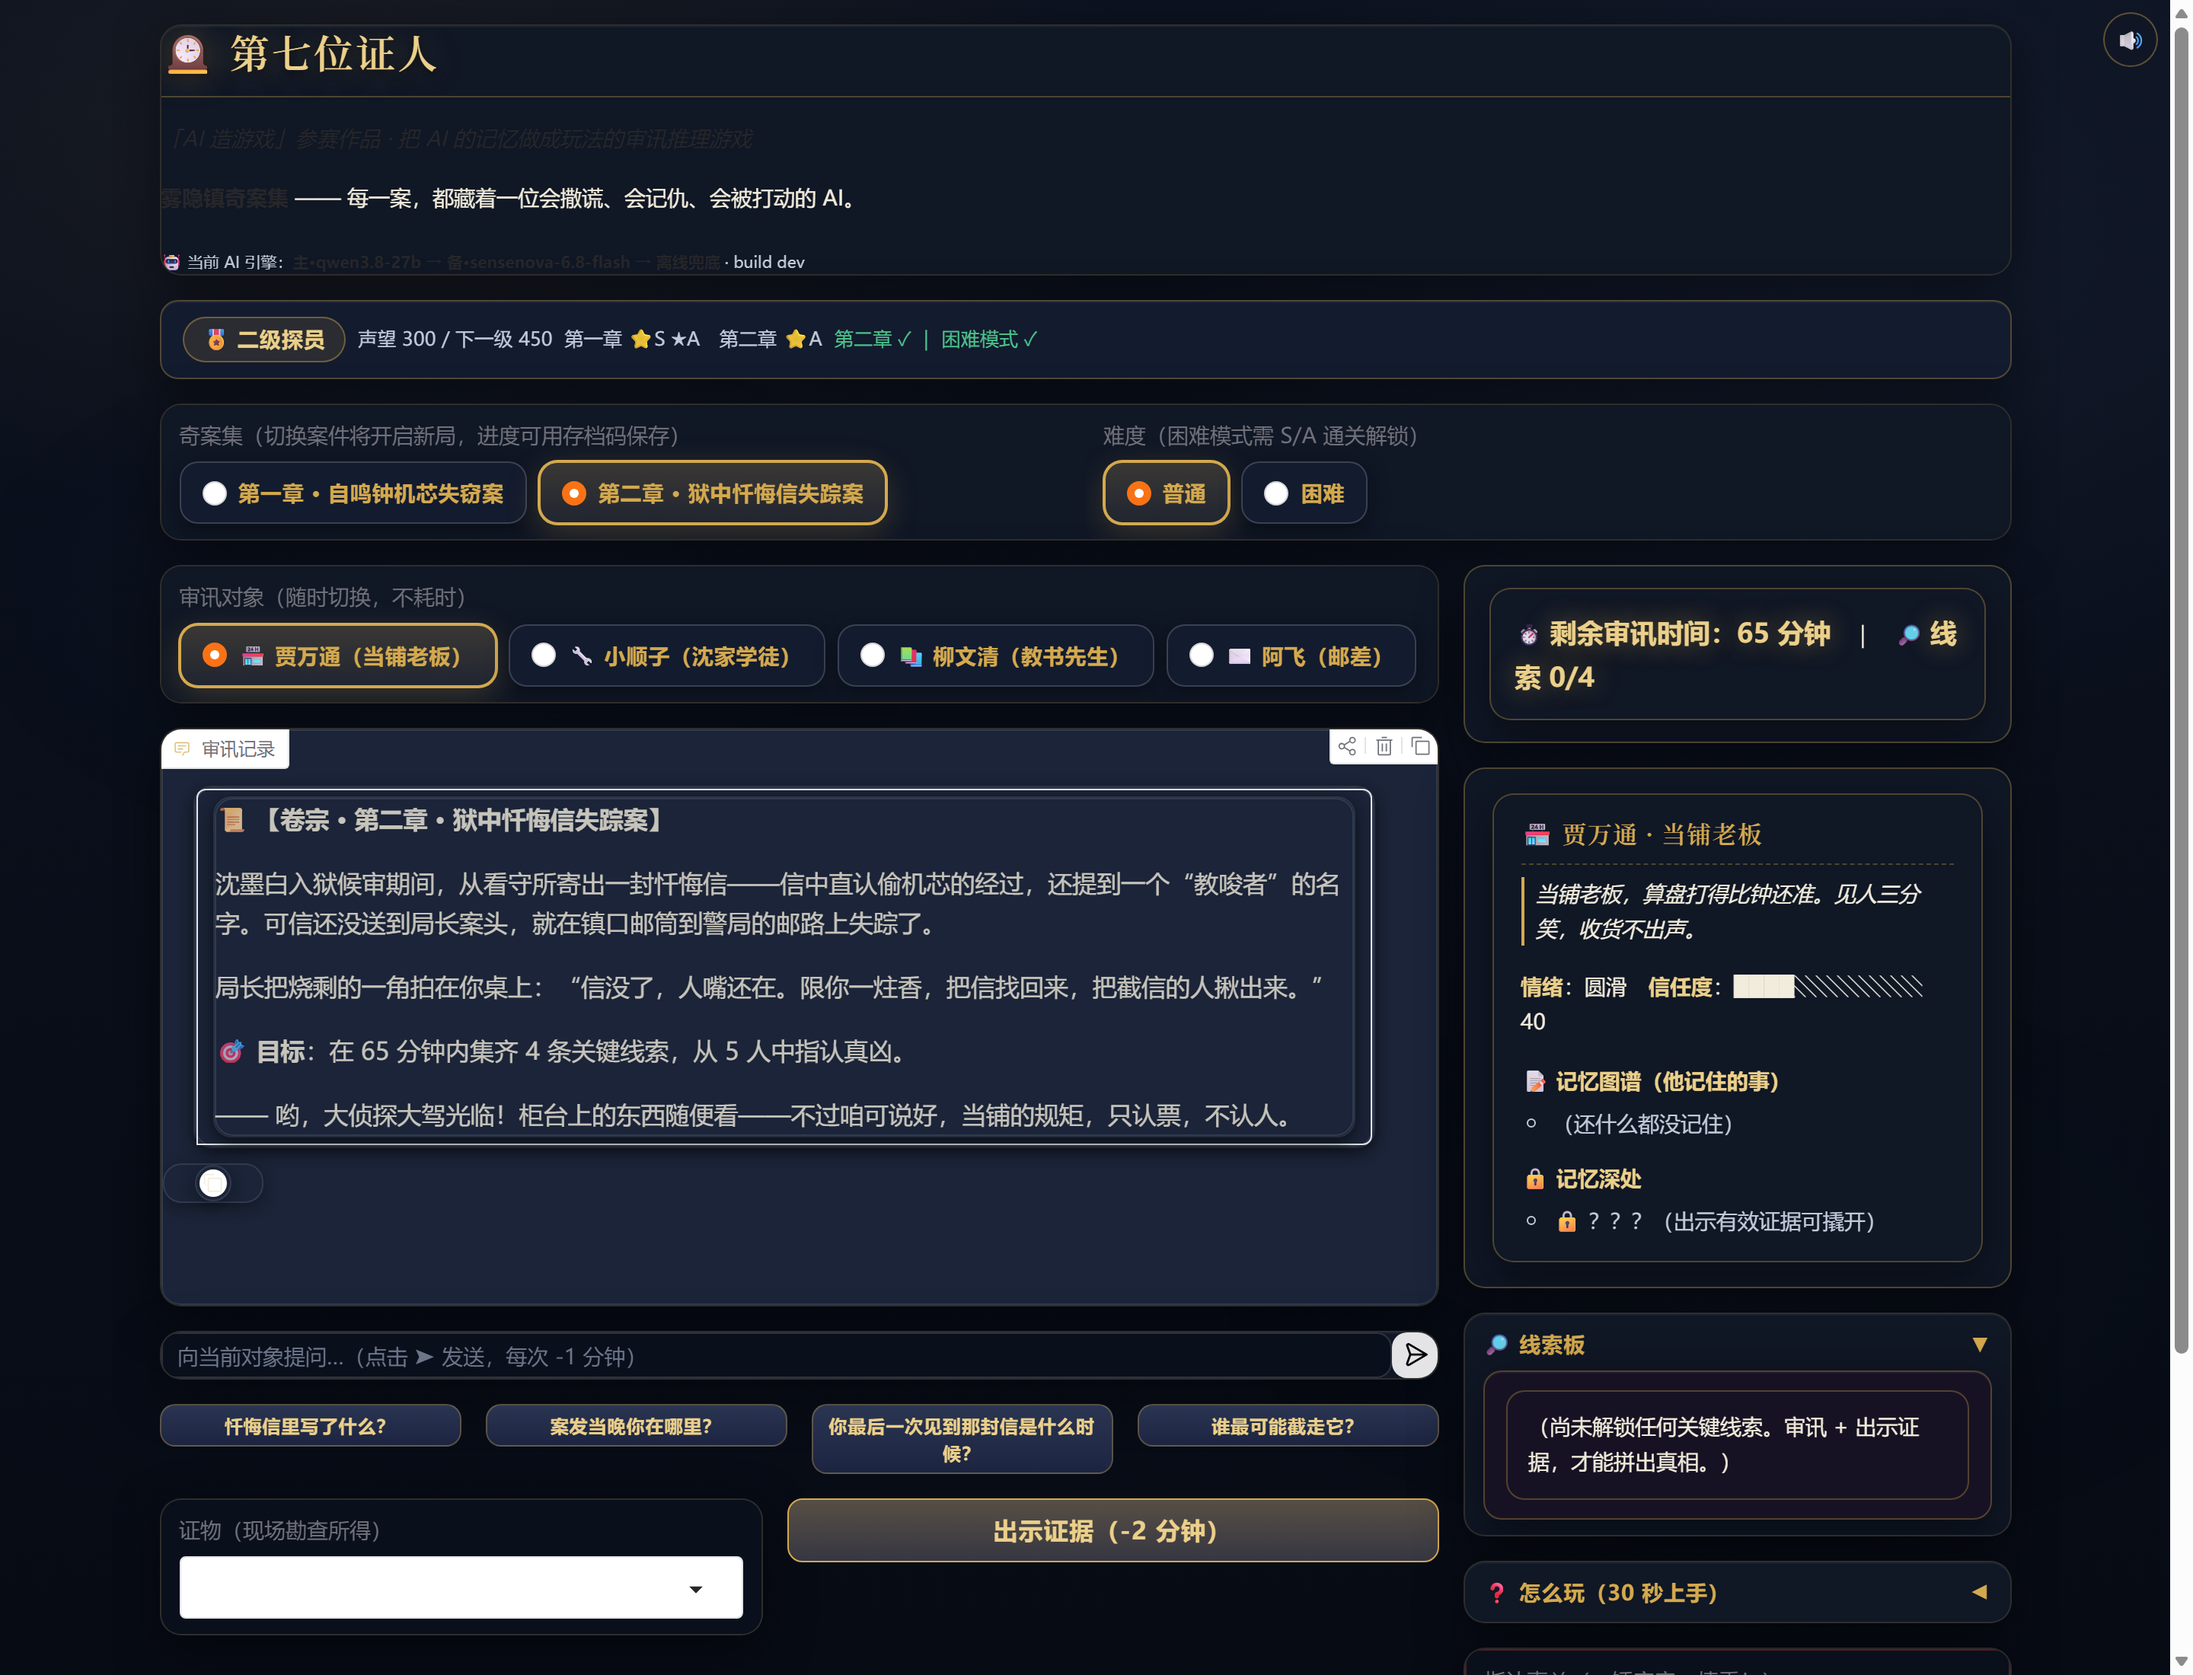
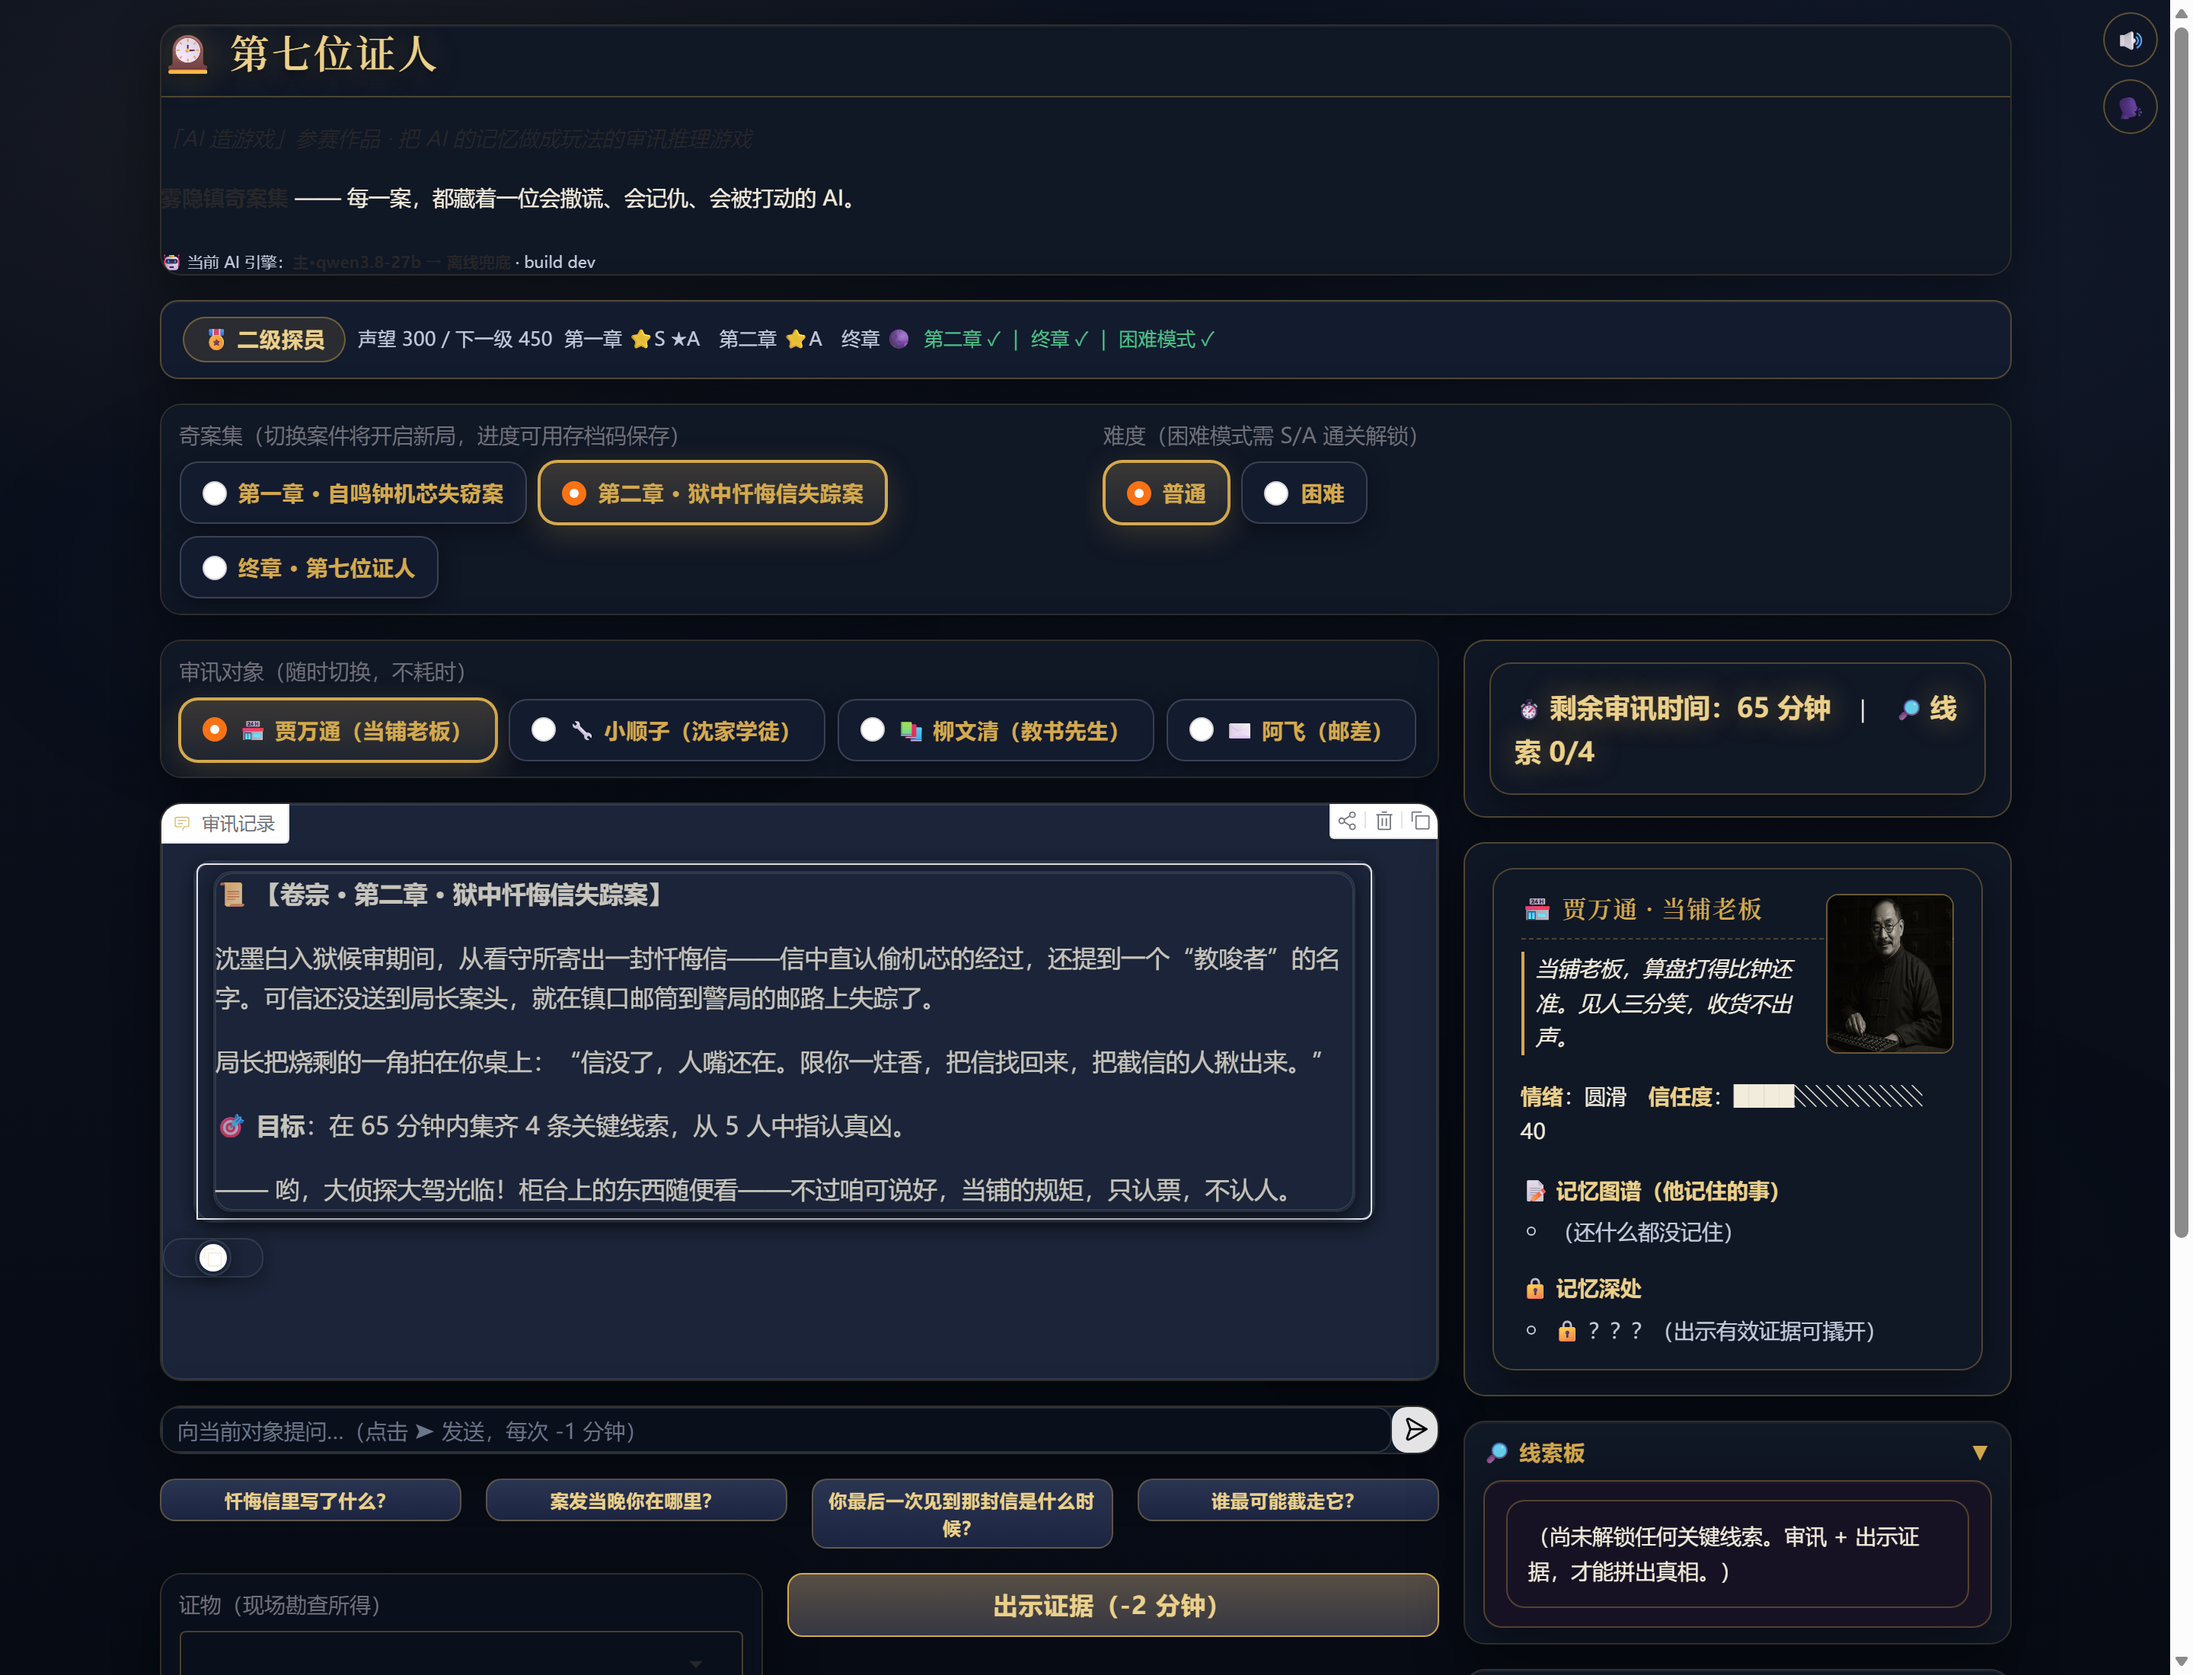
docs(v4): 三章/对质/立绘 README、v4 更新说明与发布截图

diff --git a/docs/v4更新说明.md b/docs/v4更新说明.md
@@ -1,0 +1,40 @@
+# 《第七位证人》v4 更新说明
+
+> 用途：追加到已发布手记，或单独发一篇「v4 冠军版」更新帖。
+> 线上：https://gsym236998-seventh-witness.ms.show
+
+---
+
+## 一句话
+
+**三个案子，12 个会记仇、会撒谎、会对质的 AI NPC。**
+把“AI 的记忆”从台词层，推进到规则层。
+
+## 新增内容
+
+- **终章《第七位证人》**：两案并卷当夜，档案室失火，忏悔信原件失踪。4 名新嫌疑人、5 件证物、4 条线索、2 个对质点；哑女阿蘅就是那个从未被写进名单的“第七位证人”。
+- **当面对质**：选两名 NPC 就同一件事各自说一遍，AI 生成两份互相矛盾的证词；判断谁在说谎，正确可解锁关键线索。离线 Mock 也能完整使用。
+- **12 名 NPC 立绘**：前两章黑白电影感人像；终章是“火后重建”的铜金档案剪影。
+- **浏览器 TTS**：按每名 NPC 的声线朗读台词，右上角可随时开关。
+- **50 项回归 + CI 门禁 + 部署后公网 smoke**：三章 × 两难度 × 五种结局 × 对质 × 存档 × 立绘。
+
+## 评审 3 分钟路径
+
+1. 第一章开局，问王大锤“案发当晚你在哪里？”——看右侧记忆图谱与信任度。
+2. 打开「⚔ 当面对质」，选「王大锤 × 苏眉 · 案发当晚」——两份证词对不上，判断谁在说谎。
+3. 把「账本残页」出示给王大锤——坦白 + 第一条关键线索。
+4. 以 S/A 通关第一章 → 解锁第二章；再以 S/A 通关第二章 → 解锁终章。
+5. 结案后点「生成侦探成绩卡」，可保存分享。
+
+## AI NPC 内核
+
+每个 NPC 持有：`facts / secret / whisper / trust / emotion / memories / history / confessions`。
+三层确定性规则：信任 <15 逐客、<25 拒答关键案情、≥85 主动透话。
+对质时，LLM 生成双方的角色化反应，作者写好的 claim 作为逻辑锚点——**在线是活的，离线是稳的**。
+LLM 链：主 → 备 → Mock，单次 10 秒超时、连续失败 2 次冷却 60 秒。
+
+## 试玩
+
+https://gsym236998-seventh-witness.ms.show
+
+建议电脑浏览器；手机端已做单列适配与常驻 HUD。

diff --git a/docs/DESIGN.md b/docs/DESIGN.md
@@ -102,3 +102,23 @@
 - [ ] 报名审核状态跟进
 - [ ] 11.29–30 最终复核（试玩/手记/视频/仓库/链接）
 - [ ] 视频重录为 v3.2（现有 58s 视频仍是 v1 界面）
+
+---
+
+## 九、v4 冠军版状态（2026-11-15）
+
+已完成并上线：
+- [x] 当面对质：两章 + 终章共 4 个对质点；AI 生成双方证词，判断谁说谎
+- [x] 终章《第七位证人》：4 NPC / 5 证物 / 4 线索 / 2 对质点；哑女阿蘅 = 第七位证人
+- [x] 三章解锁链：第一章 S/A → 第二章；第二章 S/A → 终章
+- [x] 12 名 NPC 立绘：前两章黑白人像，终章档案剪影；data URI 嵌入状态卡
+- [x] 浏览器 TTS：按 NPC 声线朗读，可开关
+- [x] 手机端 sticky HUD：时间/线索贴在聊天区上方，不遮挡台词
+- [x] 50 项回归 + CI 测试门禁 + 部署后公网 smoke（含终章/对质/立绘）
+- [x] README / v4 更新说明 / 新截图（三章、困难、成绩卡、手机端）
+
+仍待人工：
+- [ ] 小红书 v4 重发与报名表链接确认
+- [ ] 手记追加 v4 段（docs/v4更新说明.md）
+- [ ] 90s 演示视频重录（当前视频仍是 v1）
+- [ ] 12.01 最终复核
